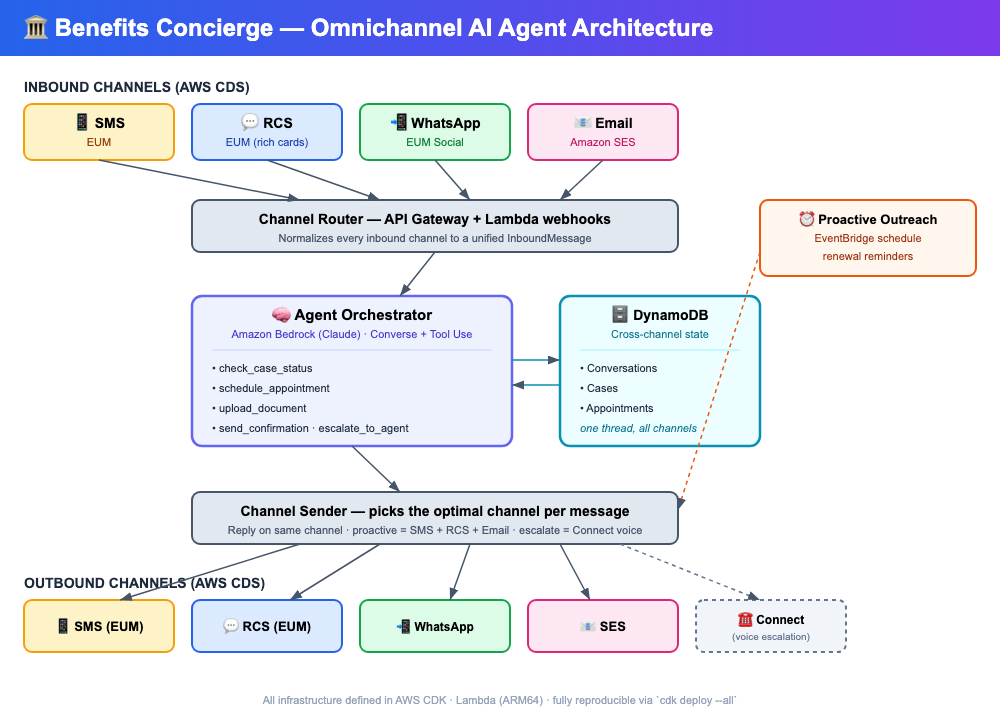
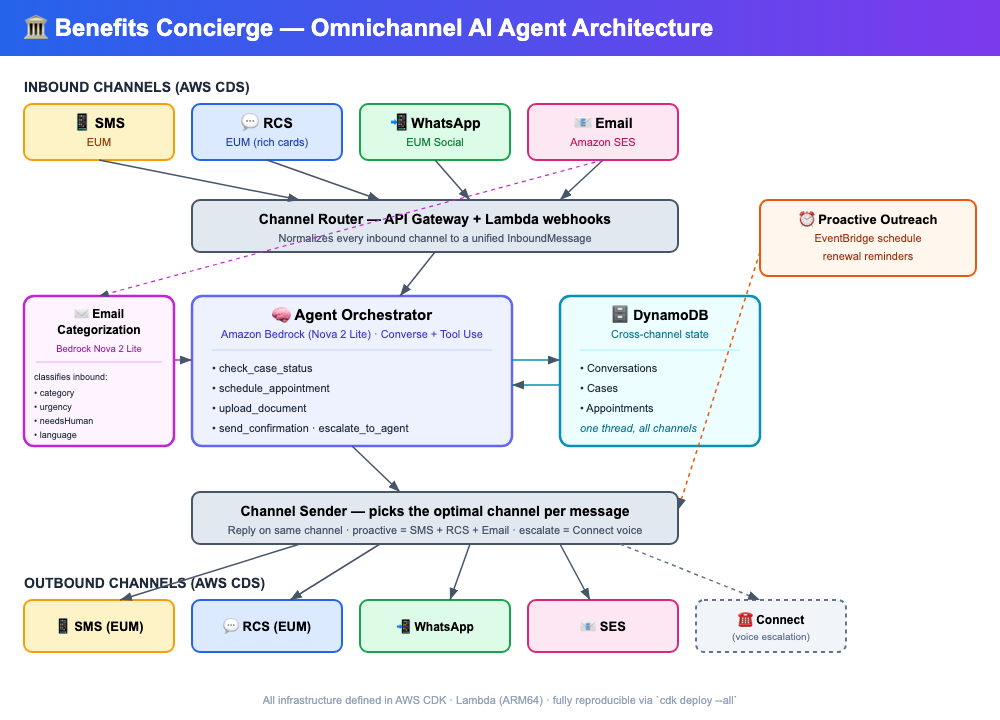
Fix orchestrator recipientId handling; add categorization node to diagram; update video script
- Orchestrator: sender's stable recipientId + AI categorization are now passed
  as transient per-turn system context (not persisted into history). Agent
  reliably passes the real recipientId to tools — verified live: check_case_status
  now called with the email, not a name parsed from the body.
- Architecture diagram: added the Email Categorization node (Bedrock Nova 2 Lite,
  classifies category/urgency/needsHuman/language) feeding the orchestrator;
  corrected the model label to Nova 2 Lite.
- Video script: added ACT 6 (inbound intelligence + live-proof) showing the
  real classifications and the deployed SES email; closing updated to Nova 2 Lite
  and the four-CDS framing.

Changed region(s): [[0.0, 0.3972, 0.186, 0.6417], [0.217, 0.4583, 0.496, 0.4889]]

diff --git a/lib/lambda/agent-orchestrator/index.ts b/lib/lambda/agent-orchestrator/index.ts
@@ -41,25 +41,34 @@ export const handler: Handler = async (event) => {
   // 1. Load or create conversation
   const conversation = await loadOrCreateConversation(message);
 
-  // 2. Append user turn — prepend the AI categorization (if this inbound email
-  //    was pre-classified by the email-categorization Lambda) so the agent
-  //    respects intent, urgency, and escalation signals.
+  // 2. Build transient turn-context (sender's stable ID + AI categorization).
+  //    This is injected into the system prompt for THIS turn only — it is NOT
+  //    persisted into conversation history (which stores the clean message).
+  const senderHint =
+    `The sender's stable recipientId is "${message.from}". ALWAYS pass this exact ` +
+    `value as the recipientId argument to any tool (check_case_status, ` +
+    `send_confirmation, escalate_to_agent). Never use a name from the message ` +
+    `text as the recipientId.`;
+
   const categoryHint = message.categorization
-    ? `[Inbound email classified by AI — category: ${message.categorization.category}, ` +
+    ? ` This inbound email was pre-classified by AI — category: ${message.categorization.category}, ` +
       `urgency: ${message.categorization.urgency}, needsHuman: ${message.categorization.needsHuman}, ` +
-      `language: ${message.categorization.language}. ${message.categorization.summary}]\n\n`
+      `language: ${message.categorization.language}. ${message.categorization.summary} ` +
+      `Respect this intent and urgency; if needsHuman is true, use escalate_to_agent.`
     : '';
+
+  const turnContext = senderHint + categoryHint;
 
   const userTurn: ConversationTurn = {
     role: 'user',
     channel: message.channel,
-    content: categoryHint + message.text,
+    content: message.text,
     timestamp: message.timestamp,
   };
   conversation.history.push(userTurn);
 
   // 3. Run the agent loop (Bedrock Converse with tool use)
-  const { responseText, toolCalls } = await runAgentLoop(conversation, message);
+  const { responseText, toolCalls } = await runAgentLoop(conversation, turnContext);
 
   // 4. Append assistant turn
   const assistantTurn: ConversationTurn = {
@@ -89,10 +98,13 @@ export const handler: Handler = async (event) => {
 
 async function runAgentLoop(
   conversation: Conversation,
-  inbound: InboundMessage,
+  turnContext: string,
 ): Promise<{ responseText: string; toolCalls: ConversationTurn['toolCalls'] }> {
   const toolConfig = buildToolConfig();
   const allToolCalls: NonNullable<ConversationTurn['toolCalls']> = [];
+
+  // System prompt + this turn's transient context (sender id, categorization)
+  const systemText = turnContext ? `${SYSTEM_PROMPT}\n\n## This Turn\n${turnContext}` : SYSTEM_PROMPT;
 
   // Build message history for Bedrock (typed as Message[])
   const messages: Message[] = conversation.history.map((turn) => ({
@@ -107,7 +119,7 @@ async function runAgentLoop(
     const response = await bedrock.send(
       new ConverseCommand({
         modelId: MODEL_ID,
-        system: [{ text: SYSTEM_PROMPT }],
+        system: [{ text: systemText }],
         messages,
         toolConfig,
         inferenceConfig: {

diff --git a/demo/VIDEO_SCRIPT.md b/demo/VIDEO_SCRIPT.md
@@ -106,22 +106,49 @@
 
 ---
 
-## CLOSING (2:40 – 3:00)
+## ACT 6 — Inbound Intelligence + Live Proof (2:40 – 3:05)
 
-**[SCREEN: Completion banner "✅ One conversation · four CDS channels · zero handoffs"]**
+**[SCREEN: cut from the web UI to a terminal / inbox showing the real system]**
 
-> Benefits Concierge is built entirely on AWS — Bedrock for the agent brain,
-> Lambda for compute, DynamoDB for cross-channel state, and AWS CDK for
-> fully reproducible infrastructure.
+> Everything you just saw isn't a mockup — it's running on AWS right now.
 >
-> It's not a chatbot following a script. It's an agentic AI that reasons,
-> calls tools, and acts across every channel recipients already use.
+> Here's the inbound side. When a recipient *emails in*, the system doesn't
+> just forward the text — a Bedrock-powered **Email Categorization** Lambda
+> classifies it first.
 >
-> The code is open-source, the infrastructure deploys with one command,
-> and the pattern scales to any government program, any channel mix,
-> any language.
+> **[SHOW: the two live classifications]** A frustrated email about benefits
+> being cut off is tagged *complaint — critical — route to a caseworker*.
+> A calm question in Spanish is tagged *renewal question — low urgency —
+> auto-answer — language es-US*. Same inbox, completely different handling.
 >
-> Thank you.
+> **[SHOW: the delivered email in the inbox]** And this is a real email the
+> **deployed** agent sent through Amazon SES — inbound email, classified by
+> AI, reasoned over by the agent, answered on the right channel, all through
+> live Lambdas in one unbroken chain.
+
+---
+
+## CLOSING (3:05 – 3:15)
+
+**[SCREEN: architecture diagram or completion banner]**
+
+> Benefits Concierge is built entirely on AWS — four Communication Developer
+> Services (SMS, RCS, WhatsApp, email), Amazon Bedrock with Nova 2 Lite for
+> the agent brain and inbound classification, Lambda, DynamoDB, and AWS CDK
+> for fully reproducible, one-command infrastructure.
+>
+> It's not a scripted chatbot — it's an agentic AI that classifies intent,
+> reasons, calls tools, and acts across every channel a recipient already uses,
+> in any language. Thank you.
+
+---
+
+## Alternate: keep it to 3:00
+
+If you need to stay strictly under 3 minutes, trim ACT 5 (the SMS status check)
+to a single sentence and merge ACT 6's live-proof into the closing — the
+inbound-classification + real-SES-email proof is the highest-value 20 seconds
+in the whole video, so keep that over the second continuity demo.
 
 ---
 
